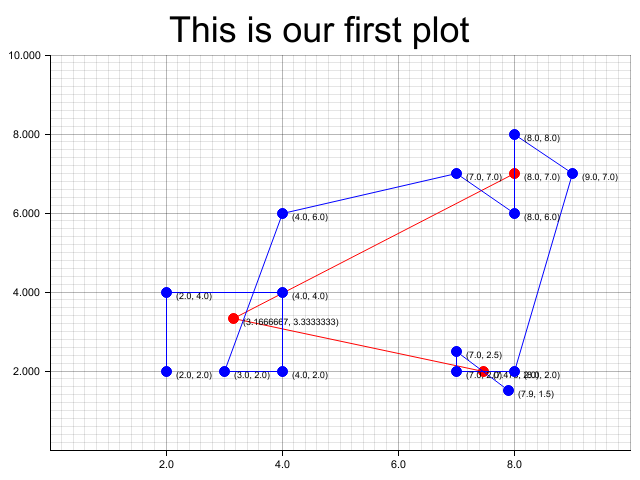
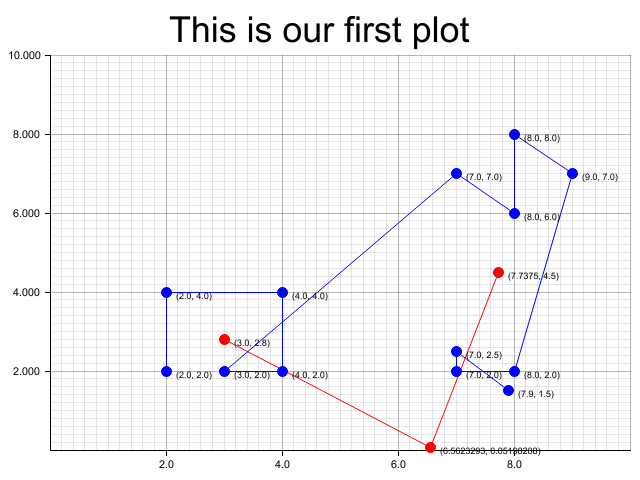
add animation

diff --git a/src/utils.rs b/src/utils.rs
@@ -1,3 +1,4 @@
+use plotters::prelude::*;
 use rand::{thread_rng, Rng};
 
 pub fn mean(numbers: Vec<f32>) -> f32 {
@@ -14,4 +15,52 @@ where
 {
     let mut random = thread_rng();
     random.gen_range(bottom, up)
+}
+
+pub fn draw(
+    points: Vec<(f32, f32)>,
+    second: Vec<(f32, f32)>,
+    index: i32,
+) -> Result<(), Box<dyn std::error::Error>> {
+    let string = format!("./{}.png", index);
+    let root = BitMapBackend::new(&string, (640, 480)).into_drawing_area();
+    root.fill(&WHITE);
+    let root = root.margin(10, 10, 10, 10);
+    // After this point, we should be able to draw construct a chart context
+    let mut chart = ChartBuilder::on(&root)
+        // Set the caption of the chart
+        .caption("This is our first plot", ("Arial", 40).into_font())
+        // Set the size of the label region
+        .x_label_area_size(20)
+        .y_label_area_size(40)
+        // Finally attach a coordinate on the drawing area and make a chart context
+        .build_ranged(0f32..10f32, 0f32..10f32)?;
+
+    // Then we can draw a mesh
+    chart
+        .configure_mesh()
+        // We can customize the maximum number of labels allowed for each axis
+        .x_labels(5)
+        .y_labels(5)
+        // We can also change the format of the label text
+        .y_label_formatter(&|x| format!("{:.3}", x))
+        .draw()?;
+
+    // And we can draw something in the drawing area
+    chart.draw_series(LineSeries::new(points.clone(), &RED))?;
+    // Similarly, we can draw point series
+    chart.draw_series(PointSeries::of_element(points, 5, &RED, &|c, s, st| {
+        return EmptyElement::at(c)    // We want to construct a composed element on-the-fly
+            + Circle::new((0,0),s,st.filled()) // At this point, the new pixel coordinate is established
+            + Text::new(format!("{:?}", c), (10, 0), ("Arial", 10).into_font());
+    }))?;
+
+    chart.draw_series(LineSeries::new(second.clone(), &BLUE))?;
+    // Similarly, we can draw point series
+    chart.draw_series(PointSeries::of_element(second, 5, &BLUE, &|c, s, st| {
+        return EmptyElement::at(c)    // We want to construct a composed element on-the-fly
+            + Circle::new((0,0),s,st.filled()) // At this point, the new pixel coordinate is established
+            + Text::new(format!("{:?}", c), (10, 0), ("Arial", 10).into_font());
+    }))?;
+    Ok(())
 }

diff --git a/src/kmeans.rs b/src/kmeans.rs
@@ -1,5 +1,5 @@
 use crate::utils;
-use utils::{distance, mean, random_number};
+use utils::{distance, draw, mean, random_number};
 
 pub type Point = [f32; 2];
 
@@ -167,11 +167,19 @@ impl KlusterMeans {
         }
     }
     pub fn run(&mut self) {
+        let mut index = 0;
         loop {
             let did_assignments_change = self.assign_points_to_centroids();
             self.update_centroid_locations();
+            let points = self.points.clone();
+            index += 1;
+            let pt = points.clone();
+
+            draw(self.result(), self.to_tuples(points), index);
 
             if !did_assignments_change {
+                draw(self.result(), self.to_tuples(pt), index);
+
                 break;
             }
         }

diff --git a/src/main.rs b/src/main.rs
@@ -1,9 +1,7 @@
 mod kmeans;
-mod plotter;
 mod utils;
 
 use kmeans::KlusterMeans;
-use plotter::draw;
 
 fn main() {
     let points = vec![
@@ -12,7 +10,6 @@ fn main() {
         [4.0, 4.0],
         [4.0, 2.0],
         [3.0, 2.0],
-        [4.0, 6.0],
         [7.0, 7.0],
         [8.0, 6.0],
         [8.0, 8.0],
@@ -28,5 +25,5 @@ fn main() {
     kmeans.init_random_centroids();
     kmeans.run();
 
-    draw(kmeans.result(), kmeans.to_tuples(double));
+    //  draw(kmeans.result(), kmeans.to_tuples(double));
 }
